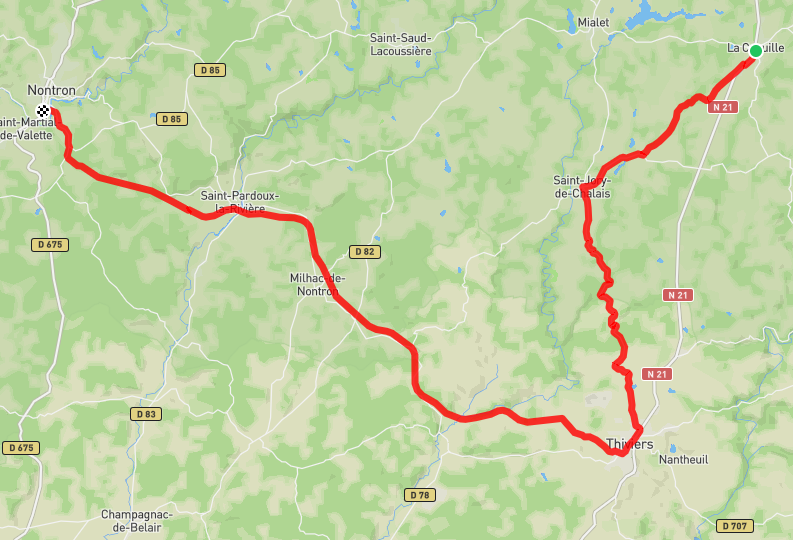
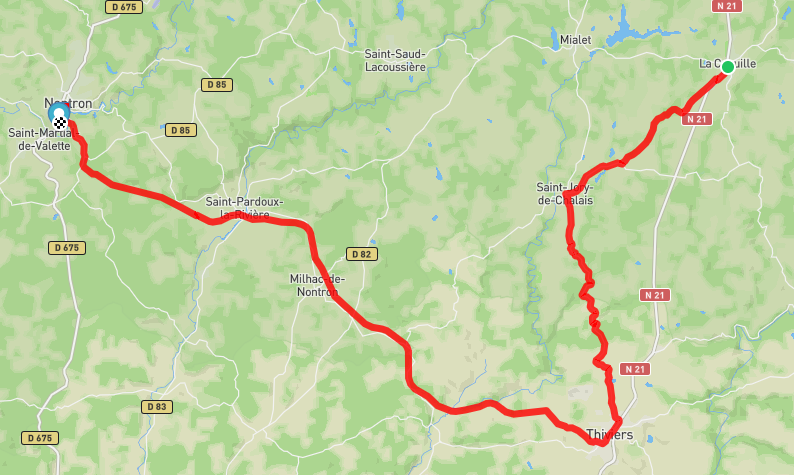
update

diff --git a/2025-flow-velo/index.md b/2025-flow-velo/index.md
@@ -3,30 +3,29 @@ title: Flow Vélo
 date: 14 août 2025
 ---
 
-# Flow vélo : 597 km +3611 m / -4128 m
+# Flow vélo : 458 km +2885 m / -3242 m
 
-[![](./images/parcours.png)](https://umap.openstreetmap.fr/fr/map/munich-venise_1200335#8/46.794/12.025)
+[![](./images/parcours.png)](https://umap.openstreetmap.fr/en/map/flow-velo_1264424#10/45.7124/-0.0536)
 
-- [Le site officiel](https://muenchen-venezia.info/en/)
-- [GPX global](files/munich-venise-est.gpx)
+- [Le site officiel](https://www.laflowvelo.com/)
 
 # 1. jeudi 14 août : Limoges ⟶ La Coquille
 
 - 🚆 Limoges 12:18 - 15:00 Saint Yrieix
     - [Billet Cécile](./files/LIMOGES_ST-YRIEIX_CECILE.pdf)
     - [Billet Daniel](./files/LIMOGES_ST-YRIEIX_DANIEL.pdf)
-- [🚲](./files/01-st-yrieix-la-coquille.gpx)
+- [🚲 GPX](./files/01-st-yrieix-la-coquille.gpx)
 
 ![](./images/01-elevation.png)
 
 ![](./images/01-map.png)
 
-- [🏨](https://maps.app.goo.gl/DqpGEqF1U49bcsPg8) Le Refuge des Pélerins, Impasse Saint-Jean, 24450 LA COQUILLE, 05.53.52.64.25
+- [🏨](https://maps.app.goo.gl/DqpGEqF1U49bcsPg8) Le Refuge des Pélerins, Impasse Saint-Jean, 24450 La Coquille, 05.53.52.64.25
 
 
 # 2. vendredi 15 août : ⟶ Nontron
 
-- [🚲](./files/02-la-coquille-nontron.gpx)
+- [🚲 GPX](./files/02-la-coquille-nontron.gpx)
 
 ![](./images/02-elevation.png)
 
@@ -36,17 +35,17 @@ date: 14 août 2025
 
 # 3. samedi 16 août : ⟶ Angoulême
 
-- [🚲](./files/3-nontron-angouleme.gpx)
+- [🚲 GPX](./files/3-nontron-angouleme.gpx)
 
 ![](./images/03-elevation.png)
 
 ![](./images/03-map.png)
 
-- [🏨](https://maps.app.goo.gl/7YXNRGmedwTiZPAa8) Appart' City, 70, Avenue de Cognac 16000 ANGOULEME 
+- [🏨](https://maps.app.goo.gl/7YXNRGmedwTiZPAa8) Appart' City, 70, Avenue de Cognac 16000 Angoulême 
 
 # 4. dimanche 17 août : ⟶ Cognac
 
-- [🚲](./files/4-angouleme-cognac.gpx)
+- [🚲 GPX](./files/4-angouleme-cognac.gpx)
 
 ![](./images/04-elevation.png)
 
@@ -56,17 +55,17 @@ date: 14 août 2025
 
 # 5. lundi 18 août : ⟶ Saintes
 
-- [🚲](./files/05-cognac-saintes.gpx)
+- [🚲 GPX](./files/05-cognac-saintes.gpx)
 
 ![](./images/05-elevation.png)
 
 ![](./images/05-map.png)
 
-- [🏨](https://maps.app.goo.gl/isRpQJ2tq6APXTer7) AJ Saintes, 2 Place Geoffroy Martel, 17100 SAINTES, 05.46.92.14.92
+- [🏨](https://maps.app.goo.gl/isRpQJ2tq6APXTer7) AJ Saintes, 2 Place Geoffroy Martel, 17100 Saintes, 05.46.92.14.92
 
 # 6. mardi 19 août : ⟶ Rochefort
 
-- [🚲](./files/06-saintes-rochefort.gpx)
+- [🚲 GPX](./files/06-saintes-rochefort.gpx)
 
 ![](./images/06-elevation.png)
 
@@ -76,7 +75,7 @@ date: 14 août 2025
 
 # 7. mercredi 20 août : ⟶ Ile d'Aix ⟶ Rochefort
 
-- [🚲](./files/07-rochefort-ile-aix.gpx)
+- [🚲 GPX](./files/07-rochefort-ile-aix.gpx)
 
 ![](./images/07-elevation.png)
 
@@ -86,7 +85,7 @@ date: 14 août 2025
 
 # 8. jeudi 21 août : ⟶ La Tremblade
 
-- [🚲](./files/08-rochefort-la-tremblade.gpx)
+- [🚲 GPX](./files/08-rochefort-la-tremblade.gpx)
 
 ![](./images/08-elevation.png)
 
@@ -96,7 +95,7 @@ date: 14 août 2025
 
 # 9. vendredi 22 août : ⟶ Royan
 
-- [🚲](./files/09-la-tremblade-royan.gpx)
+- [🚲 GPX](./files/09-la-tremblade-royan.gpx)
 
 ![](./images/09-elevation.png)
 
@@ -104,22 +103,14 @@ date: 14 août 2025
 
 - [🏨](https://maps.app.goo.gl/sLRhc9wo9v4vpRc76) 78 boulevard Franck Lamy, 17200 Royan 
 
-# 10. samedi 23 août, samedi 2 août : ⟶ Soulac ⟶ Royan
-
-- [🚲](./files/10-royan-soulac.gpx)
-
-![](./images/10.png)
-
-![](./images/10-map.png)
-
-- 🏨 
+# 10. samedi 23 août : ⟶ Soulac ⟶ Royan
 
 # 11. dimanche 24 août : ⟶ La Rochelle
 
-- 🚆  Royan 13:00 - 15:15 Saintes 16:16 - 18:18 La Rochelle
+- 🚆  Royan 09:28 - 09:53 Saintes 10:06 - 11:11 La Rochelle
     - [Billet Cécile](./files/ROYAN_LA-ROCHELLE_CECILE.pdf)
     - [Billet Daniel](./files/ROYAN_LA-ROCHELLE_DANIEL.pdf)
-- 🏨
+- [🏨](https://maps.app.goo.gl/p4o4YgM4hH6MZne67) AJ, Avenue des Minimes, 17000 La Rochelle, 05.46.44.43.11
 
 # 12. lundi 25 août : ⟶ Paris
 
